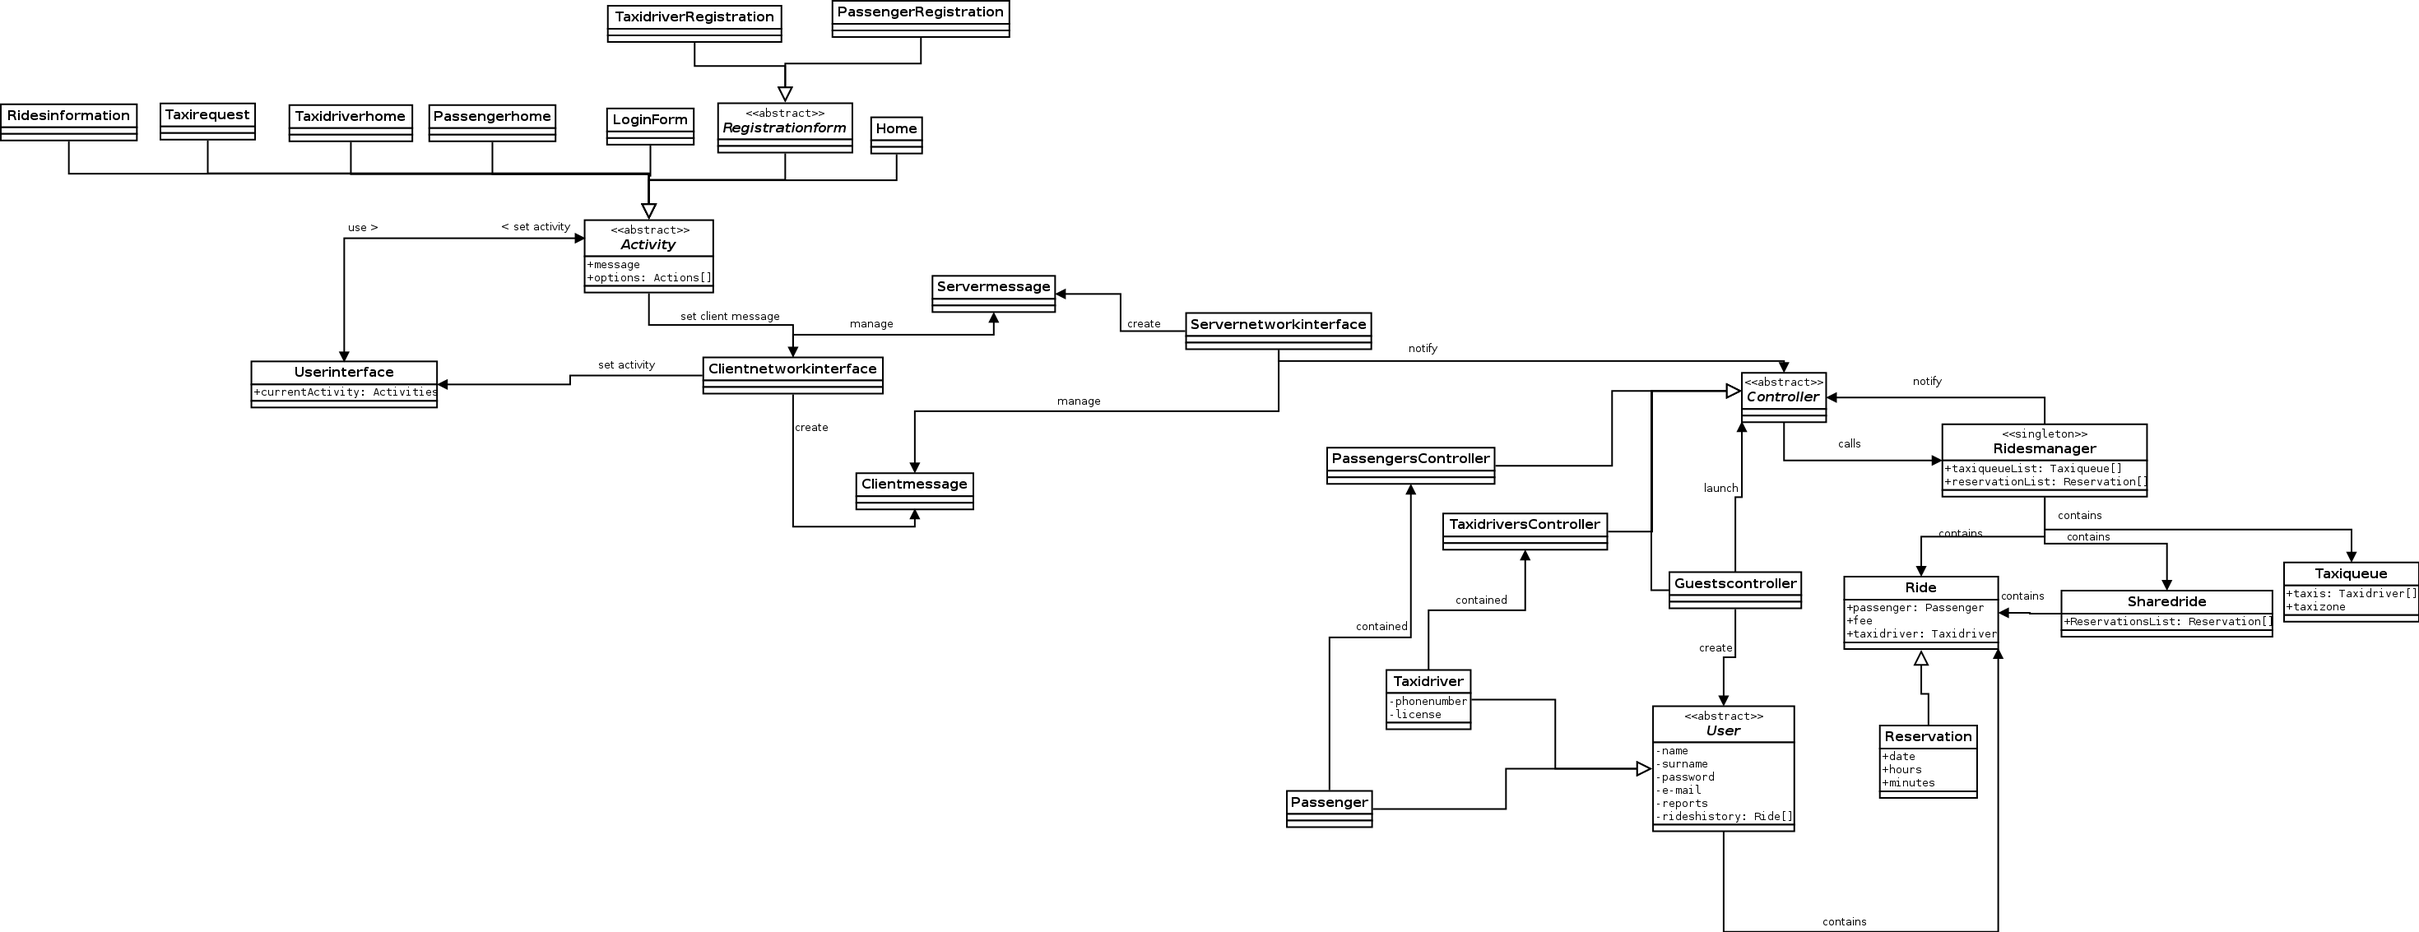
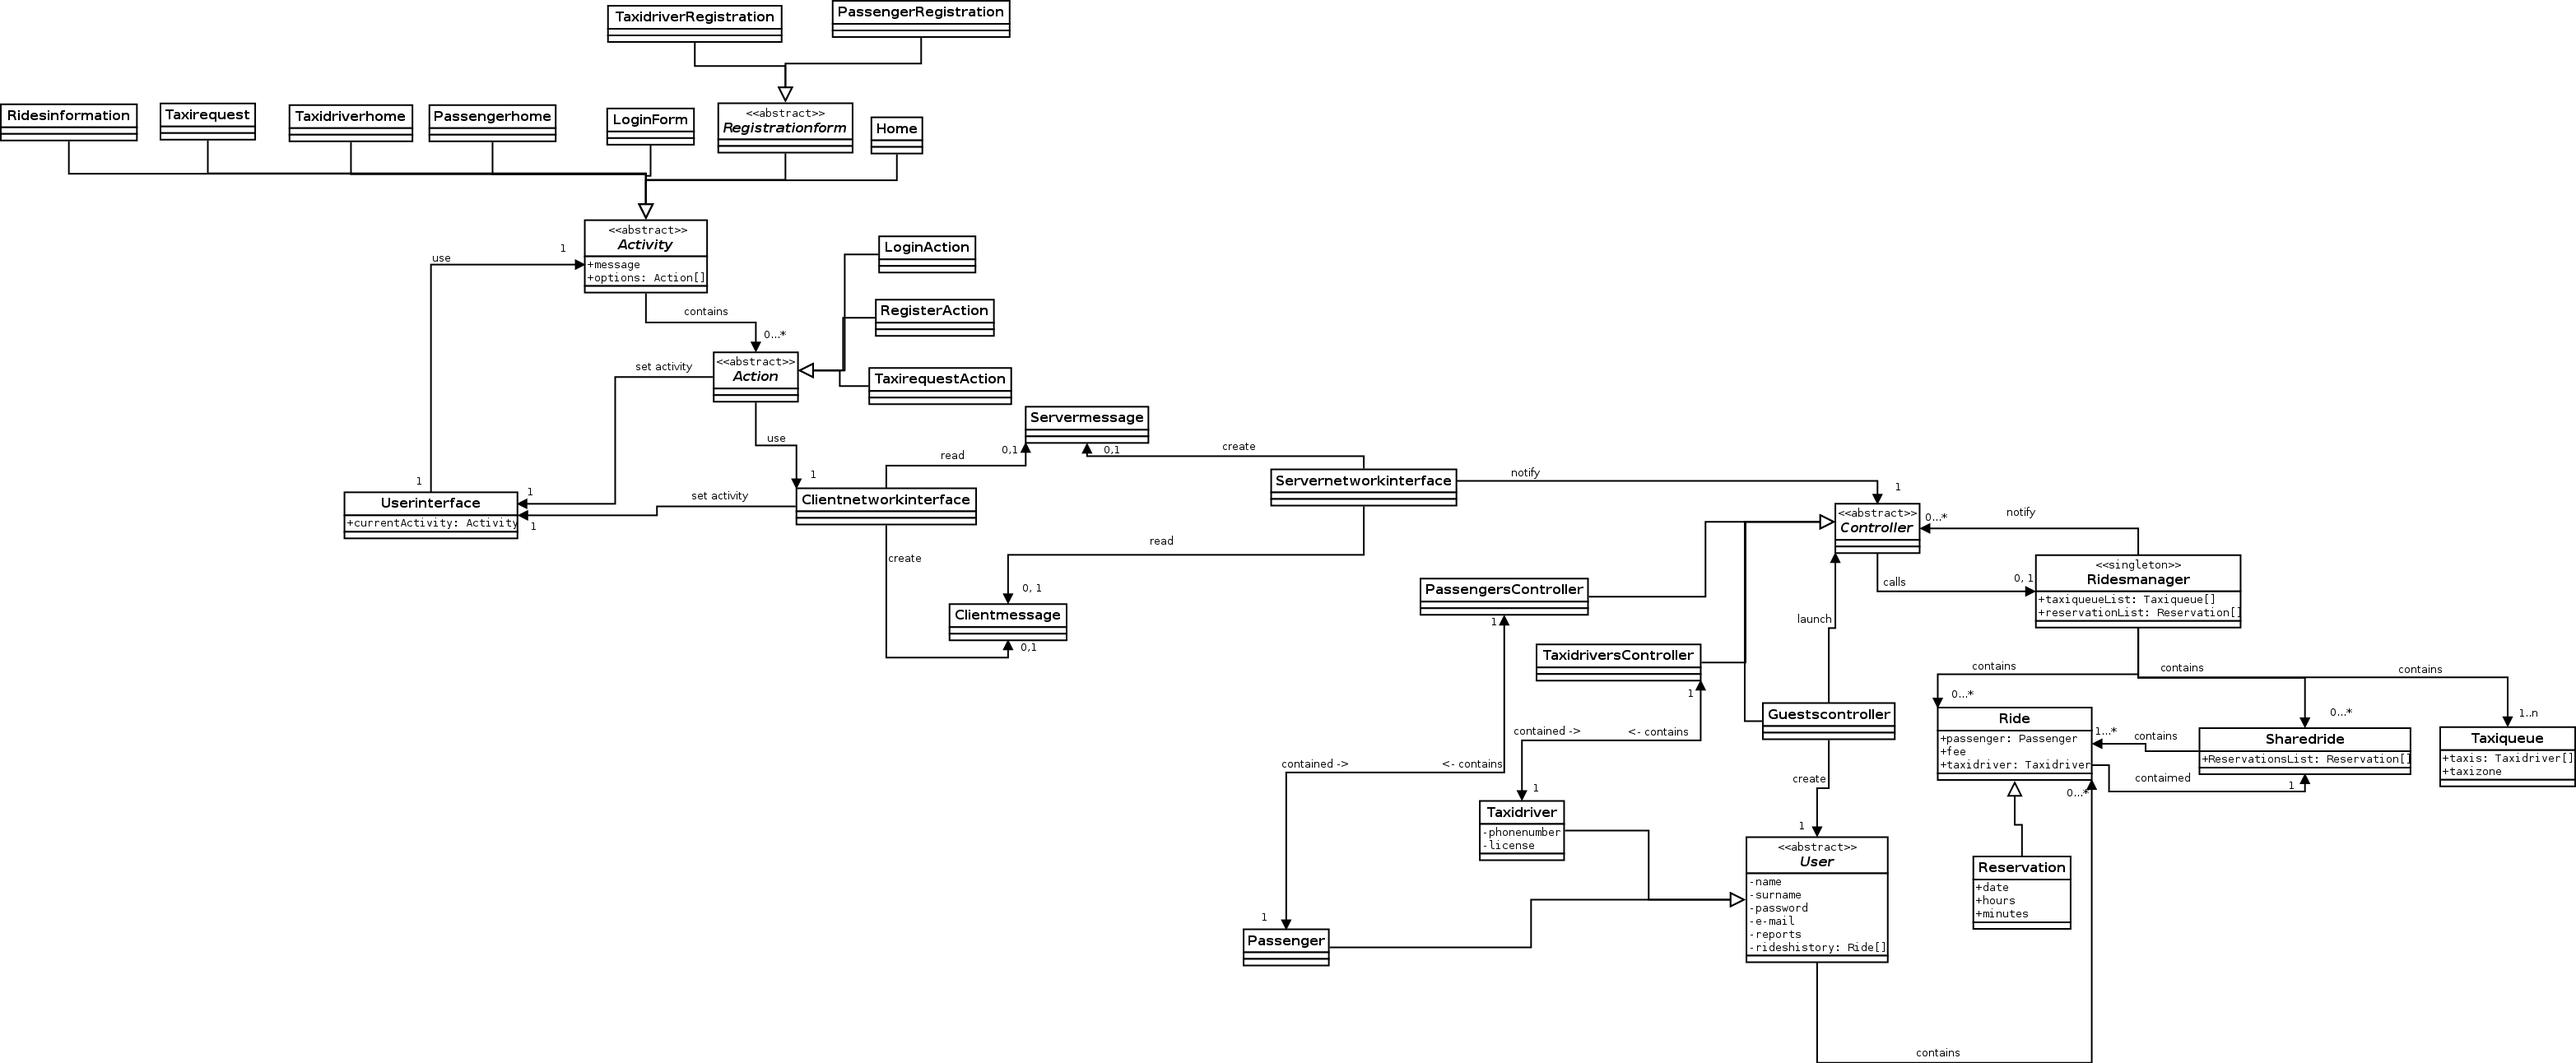
updated Diagramma1.png

diff --git a/latex/RASD/chapters/UML.tex b/latex/RASD/chapters/UML.tex
@@ -1,0 +1,4 @@
+The UML printed below represent an idea of how the system must be developed, in order to make it easier to be read,
+we decide to insert only few example of activities and actions.
+An activity is a set of object that must be shown to the users ( also the guests).
+An action is something that can be activated by the user, or also by a guest, interacting with the application.

diff --git a/latex/RASD/RASD.tex b/latex/RASD/RASD.tex
@@ -38,6 +38,12 @@
 \addtocounter{chapter}{1}
 \input{chapters/specific_requirements.tex}
 
+\chapter*{UML}
+\addcontentsline{toc}{chapter}{UML}
+\setcounter{section}{0}
+\addtocounter{chapter}{1}
+\input{chapters/uml.tex}
+
 \chapter*{Appendix}
 \addcontentsline{toc}{chapter}{Appendix}
 \setcounter{section}{0}
